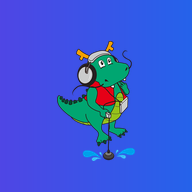
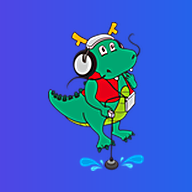
스마트 물길점검: 차량 위치·팀장에게 위치 보내기·카톡 보내기·아이콘 크게
Claude-Session: https://claude.ai/code/session_01RLYUnxW5YfDx6oiFisBKiW

Changed region(s): [[0.25, 0.0938, 0.75, 0.9062], [0.6562, 0.1562, 0.7188, 0.2188]]

diff --git a/insp-schedule/index.html b/insp-schedule/index.html
@@ -289,6 +289,9 @@ html.noadm .adm{display:none!important}
 
 /* ── 🗺 카카오맵형 PC 배치 (html.kk: 1024px 이상 · 휴대폰 배치가 아닐 때) ── */
 .kk-only{display:none}
+.veh{position:absolute;left:0;top:0;transform:translate(-50%,-92%);width:78px;pointer-events:auto;cursor:pointer}.veh img{width:78px;display:block;filter:drop-shadow(0 3px 4px rgba(0,0,0,.45));transition:transform .4s}.veh.flip img{transform:scaleX(-1)}
+.veh span{position:absolute;left:50%;top:100%;transform:translateX(-50%);white-space:nowrap;background:#1e1b4b;color:#fff;font-size:11px;font-weight:800;padding:1px 7px;border-radius:99px;margin-top:1px;box-shadow:0 1px 3px rgba(0,0,0,.3)}
+.veh.me span{background:#dc2626}html.dark .veh span{background:#312e81}#fLoc.on{background:#fee2e2!important}
 .iwh{position:absolute}#intro{display:none;position:fixed;inset:0;z-index:6000;background:linear-gradient(135deg,#4f46e5,#2563eb);overflow:hidden;cursor:pointer}#intro.on{display:block}#intro.out{opacity:0;transition:opacity .35s}
 .iroad{position:absolute;left:0;right:0;top:calc(50% + min(90vw,560px)*.19);height:6px;background:repeating-linear-gradient(90deg,rgba(255,255,255,.75) 0 40px,transparent 40px 80px);animation:iroad .55s linear infinite}
 @keyframes iroad{to{background-position:-80px 0}}
@@ -477,6 +480,7 @@ html:not(.fm) main{grid-template-columns:minmax(0,1fr) minmax(0,1fr)}
   <button class="btn" id="bNav" type="button"><i class="ii" data-i="compass"></i> 주소찾기·길안내</button>
   <button class="btn" id="bInst" hidden title="주소창 없이 앱처럼 열리게 홈 화면에 설치합니다"><i class="ii" data-i="plus"></i> 앱으로 설치</button>
   <button class="btn" id="bHelp" type="button">❓ 사용법</button>
+  <button class="btn adm" id="bPos" type="button"><i class="ii" data-i="loc"></i> 내 위치 보내기</button>
   <button class="btn" id="bToday" type="button"><i class="ii" data-i="flag"></i> 오늘 점검</button>
   <button class="btn" id="bIcs" type="button"><i class="ii" data-i="cal"></i> 휴대폰 달력에 넣기</button>
   <button class="btn" id="bFs" type="button"><b style="font-size:15px">가</b> <span id="fsT">글자 보통</span></button>
@@ -601,6 +605,12 @@ html:not(.fm) main{grid-template-columns:minmax(0,1fr) minmax(0,1fr)}
  <div class="tabs" id="evTabs"><button data-t="team" class="on"><i class="ii" data-i="clip"></i> 팀평가</button><button data-t="prev"><i class="ii" data-i="hist"></i> 이전 지적</button><button data-t="ppl"><i class="ii" data-i="users"></i> 개별평가</button><button data-t="intv"><i class="ii" data-i="mic"></i> 면담</button><button data-t="res"><i class="ii" data-i="doc"></i> 결과</button><button data-t="ph"><i class="ii" data-i="map"></i> 사진</button><button data-t="hist"><i class="ii" data-i="cal"></i> 회차 이력</button></div>
  <div id="evBody"></div>
  <div class="evft"><label class="mini" style="display:flex;gap:6px;align-items:center"><input type="checkbox" id="evDone"> <b>이 현장 점검 완료</b></label><span id="evMsg" class="mini"></span><button class="btn pri" id="evSv"><i class="ii" data-i="save"></i> 점검표 저장</button></div>
+</div></div>
+<div class="modal np" id="tpm"><div class="mbox" style="max-width:420px;margin-top:60px">
+ <div style="display:flex;justify-content:space-between;align-items:center;margin-bottom:6px"><b><i class="ii" data-i="loc"></i> 팀장에게 내 위치 보내기</b><button class="btn" id="tpX" type="button"><i class="ii" data-i="x"></i></button></div>
+ <p id="tpQ" style="margin:6px 0 2px;font-weight:700;font-size:15px"></p><p class="mini" id="tpD" style="margin:0 0 10px"></p>
+ <div style="display:flex;gap:8px;flex-wrap:wrap"><button class="btn" id="tpS" type="button" style="background:#4f46e5;color:#fff;border-color:#4f46e5;flex:1">💬 문자</button><button class="btn" id="tpK" type="button" style="background:#fee500;color:#191919;border-color:#fee500;flex:1">🟡 카톡</button><button class="btn" id="tpN" type="button" style="flex:1">아니오</button></div>
+ <label class="mini" style="display:flex;gap:6px;align-items:center;margin-top:10px"><input type="checkbox" id="tpOff"> 검색할 때 묻지 않기 (지도 설정에서 다시 켤 수 있음)</label>
 </div></div>
 <div class="modal np" id="rdm"><div class="mbox" style="max-width:440px;margin-top:40px">
  <div style="display:flex;justify-content:space-between;align-items:center;margin-bottom:8px"><b><i class="ii" data-i="cal"></i> 새 점검 회차 만들기</b><button class="btn" id="rdX"><i class="ii" data-i="x"></i></button></div>
@@ -843,7 +853,7 @@ $('nearB').onclick=()=>{if(sortK==='dist'){sortK='pd';sortD=1;MYPOS=null;$('near
  navigator.geolocation.getCurrentPosition(p=>{MYPOS={lat:p.coords.latitude,lng:p.coords.longitude};sortK='dist';sortD=1;$('nearB').classList.add('on');$('nearI').textContent='내 위치에서 직선거리 순 · 다시 누르면 끔';setTab('lst');render()},()=>{$('nearI').textContent='';toast('위치를 가져오지 못했습니다 (위치 권한 확인)')},{enableHighAccuracy:true,timeout:9000})};
 /* 🔎 검색 결과가 한 곳이면 지도로 이동하고 핀을 깜빡임 */
 let QF=null;function qFly(){clearTimeout(QF);QF=setTimeout(()=>{const q=F.q.trim();if(!q||!map)return;const L=filt();if(L.length!==1||!hasPin(L[0]))return;const r=L[0];selId=r.id;BLINK=r.id;
- map.setView([r.lat,r.lng],Math.max(map.getZoom(),12));drawPins();hiRow&&hiRow();setTimeout(()=>{BLINK=null},3000)},450)}
+ map.setView([r.lat,r.lng],Math.max(map.getZoom(),12));drawPins();hiRow&&hiRow();setTimeout(()=>{BLINK=null},3000);const q0=F.q;setTimeout(()=>{if(F.q===q0)tposAsk(r,true)},1300)},450)}
 
 /* ── 카카오 바탕지도 (깃허브 판 · 키는 이 브라우저에만 저장, 실패하면 기본 지도) ── */
 const KKEY='mulgil-kakao-key';let KK=false;
@@ -933,6 +943,7 @@ function lyApply(){const H=document.documentElement;H.classList.toggle('nomap',!
  if(map&&!KK&&map.getPane){const b=map.getPane('base'),t=map.getPane('tilePane');if(b)b.style.display=LY.base?'':'none';if(t)t.style.display=LY.base?'':'none'}
  if(typeof isMob==='function'&&isMob()&&LY.map&&SH==='full')setSheet('half');if(typeof isMob==='function'&&isMob()&&!LY.map)setSheet('full')}
 function lyUI(){const hasK=!!kkKeyRaw()&&!inClaude(),I=[
+ ...ADM&&AUTH?[['askpos',!tpOff(),'검색 때 팀장에게 내 위치 보내기 묻기','현장을 검색해 하나로 좁혀지면 그 현장 팀장에게 보낼지 물어봅니다 (점검자만)']]:[],
  ['clean',LY.clean,'지도만 보기','경계 지도에 핀·지자체 색만 화면 가득 (발표·캡처용) · Esc나 ✕로 끝'],
  ['map',LY.map,'지도 보기','끄면 지도를 숨기고 목록·달력만 넓게 봅니다'],
  ['kk',LY.kk&&hasK,'카카오 바탕지도',hasK?'끄면 기본 지도(시·군·구 경계)로 봅니다 · 바꾸면 다시 열림':inClaude()?'Claude 페이지에서는 쓸 수 없습니다':'메뉴 \'카카오 지도 키\'를 먼저 넣으세요',!hasK],
@@ -954,6 +965,7 @@ $('mapOn').onclick=()=>{LY.map=1;lySave();lyApply();setTimeout(()=>{map&&map.inv
 $('lyL').addEventListener('change',e=>{const k=e.target.dataset.ly,v=e.target.checked;if(!k)return;
  if(k==='rg'){$('rgOn').checked=v;drawPins();return}if(k==='lbl'){$('lblOn').checked=v;drawPins();return}
  if(k==='clean'){$('lym').classList.remove('on');cleanSet(v);return}
+ if(k==='askpos'){try{localStorage.setItem('mulgil-askpos',v?'1':'0')}catch(_){}return}
  LY[k]=v?1:0;lySave();if(k==='kk'){location.reload();return}
  if(k==='map'){lyApply();$('lym').classList.remove('on');if(v)setTimeout(()=>{map&&map.invalidateSize();drawPins(true)},200);return}
  lyApply();drawPins()});
@@ -1013,7 +1025,7 @@ $('pickSkip').onclick=nextPick;$('pickX').onclick=endPick;
 $('fPick').onclick=()=>{if(pickId)return endPick();const ids=filt().filter(r=>!hasPin(r)).sort((a,b)=>a.no-b.no).map(r=>r.id);if(!ids.length)return toast('모든 현장에 위치가 있습니다');startPick(ids)};
 $('fFit').onclick=()=>{const p=filt().filter(hasPin).map(r=>[r.lat,r.lng]);if(map&&p.length)map.fitBounds(p,{padding:[60,60],maxZoom:12});else if(map)map.setView([36.2,127.9],7)};
 $('fNext').onclick=()=>{const d=rows.filter(r=>r.st==='예정'&&ddays(r.pd)>=0).map(r=>r.pd).sort()[0];if(!d)return toast('남은 점검 일정이 없습니다');F.day=d;render(true);toast(md(d)+'('+wd(d)+') 점검 현장')};
-$('fLoc').onclick=()=>{if(!navigator.geolocation)return toast('이 화면에서는 위치를 쓸 수 없습니다');navigator.geolocation.getCurrentPosition(p=>{const ll=[p.coords.latitude,p.coords.longitude];map.setView(ll,13);(KK?kkMarker({lat:ll[0],lng:ll[1]},'pin','<div class="d" style="background:#2563eb"></div>',{title:'내 위치',z:2000}).addTo(pinL):L.circleMarker(ll,{radius:8,color:'#fff',weight:3,fillColor:'#2563eb',fillOpacity:1}).addTo(pinL))},()=>toast('위치를 가져오지 못했습니다'),{enableHighAccuracy:true,timeout:8000})};
+$('fLoc').onclick=()=>{if(ADM&&lockNeed()&&AUTH&&vehMine())return;if(!navigator.geolocation)return toast('이 화면에서는 위치를 쓸 수 없습니다');navigator.geolocation.getCurrentPosition(p=>{const ll=[p.coords.latitude,p.coords.longitude];map.setView(ll,13);(KK?kkMarker({lat:ll[0],lng:ll[1]},'pin','<div class="d" style="background:#2563eb"></div>',{title:'내 위치',z:2000}).addTo(pinL):L.circleMarker(ll,{radius:8,color:'#fff',weight:3,fillColor:'#2563eb',fillOpacity:1}).addTo(pinL))},()=>toast('위치를 가져오지 못했습니다'),{enableHighAccuracy:true,timeout:8000})};
 $('bMove').onclick=()=>{moveOn=!moveOn;$('bMove').classList.toggle('on',moveOn);drawPins();toast(moveOn?'핀을 끌어서 옮길 수 있습니다':'핀 옮기기 꺼짐')};
 $('colBy').onchange=()=>drawPins();$('lblOn').onchange=()=>drawPins();
 function dbArrows(){const d=$('daybar'),w=$('mapWrap');if(!d||!w)return;const r=d.getBoundingClientRect(),q=w.getBoundingClientRect(),f=d.querySelector('.dc');const top=(f?f.getBoundingClientRect().top+f.offsetHeight/2:r.top+22)-q.top-17;
@@ -1383,7 +1395,7 @@ async function rdSet(o){const {id,...b}=o;if(mode==='db'){try{await DB.collectio
  RNDS=RNDS.filter(x=>x.id!==id).concat([o]);rndSort();lsSave();rdUI()}
 $('bArc').onclick=rdArchive;
 /* ── 🔄 새로고침(A안) + 새 판 알림(깃허브 판) ── */
-const BUILD='20261121093140';
+const BUILD='20261121095406';
 function doRefresh(){toast('새로 불러오는 중…');setTimeout(()=>location.reload(),150)}
 $('bRf').onclick=doRefresh;$('fRf').onclick=doRefresh;$('updGo').onclick=doRefresh;$('updX').onclick=()=>$('updB').classList.remove('on');
 async function updCheck(){if(inClaude()||!/^https?:/.test(location.protocol)||/^__/.test(BUILD))return;try{const t=await (await fetch(location.pathname+'?v='+Date.now(),{cache:'no-store'})).text();const m=/const BUILD='([^']+)'/.exec(t);if(m&&m[1]!==BUILD)$('updB').classList.add('on')}catch(e){}}
@@ -2763,6 +2775,53 @@ $('lkK').addEventListener('mousedown',e=>e.preventDefault());$('lkK').onclick=()
 function lockOut(){if(AUTH)logEv('로그아웃',AUTH.name,AUTH.role);try{localStorage.removeItem('mulgil-auth');sessionStorage.removeItem('mulgil-auth')}catch(e){}location.reload()}
 lockApply();
 
+/* ── 🚐 관리자(점검자 로그인) 차량 위치: A 내 화면에 차량으로 따라가기 · C 내 위치 보내기(링크, 서버 없음) ── */
+const VEH={};let VW=null,VPREV=null;
+const vanSrc=()=>{const i=document.querySelector('#intro .ivan img');return i?i.src:''};
+function vehPut(key,lat,lng,label,flip,me){if(!map)return;const html=`<div class="veh${flip?' flip':''}${me?' me':''}"><img src="${vanSrc()}" alt="점검 차량"><span>${esc(label)}</span></div>`;let v=VEH[key];
+ if(KK){const km=kakao.maps,pos=new km.LatLng(lat,lng);if(!v||!v.k){const el=document.createElement('div');el.innerHTML=html;const o=new km.CustomOverlay({position:pos,content:el,xAnchor:0,yAnchor:0,zIndex:3500,clickable:true});o.setMap(map.k);VEH[key]={k:o,el}}else{v.k.setPosition(pos);v.el.innerHTML=html}}
+ else{const ic=L.divIcon({className:'',html,iconSize:[0,0]});if(!v||!v.l){VEH[key]={l:L.marker([lat,lng],{icon:ic,zIndexOffset:3000,interactive:false}).addTo(map)}}else{v.l.setLatLng([lat,lng]);v.l.setIcon(ic)}}}
+function vehDel(key){const v=VEH[key];if(!v)return;try{v.k&&v.k.setMap(null);v.l&&v.l.remove()}catch(e){}delete VEH[key]}
+function vehMine(){if(VW!=null){navigator.geolocation.clearWatch(VW);VW=null;VPREV=null;vehDel('me');$('fLoc').classList.remove('on');toast('내 차량 표시를 껐습니다');return true}
+ if(!navigator.geolocation){toast('이 화면에서는 위치를 쓸 수 없습니다');return true}let first=true;$('fLoc').classList.add('on');toast('내 위치를 차량으로 표시합니다 · 다시 누르면 끔');
+ VW=navigator.geolocation.watchPosition(p=>{const la=p.coords.latitude,ln=p.coords.longitude;let flip=VPREV?VPREV.flip:false;if(VPREV&&Math.abs(ln-VPREV.ln)>0.00003)flip=ln<VPREV.ln;VPREV={la,ln,flip};
+  const nm=(AUTH&&AUTH.name)||MEN||'내 차량';vehPut('me',la,ln,nm+' (나)',flip,true);if(first){first=false;map.setView([la,ln],Math.max(map.getZoom(),13))}},
+  e=>{if(e&&e.code===1){toast('위치 권한이 없어 내 차량 표시를 껐습니다');vehMine()}else if(first)toast('위치를 찾는 중입니다…')},{enableHighAccuracy:true,maximumAge:5000,timeout:20000});return true}
+document.addEventListener('visibilitychange',()=>{if(document.hidden&&VW!=null){navigator.geolocation.clearWatch(VW);VW=null;VPREV=null;vehDel('me');$('fLoc').classList.remove('on')}});
+/* 현장 검색 → 그 현장 팀장에게 내 위치 보내기 묻기 (점검자 로그인만) */
+const TPASK={};let TPR=null,TPTXT='',TPU='';
+const tpOff=()=>{try{return localStorage.getItem('mulgil-askpos')==='0'}catch(e){return false}};
+const tpLead=r=>{const c=ctOf(r).p||[];const l=c.find(x=>/팀장/.test(x.role||''))||c[0];return{n:(l&&l.n)||r.tl||r.solo||r.lead||'',role:(l&&l.role)||'팀장',ph:(l&&l.ph)||''}};
+function tposAsk(r,auto){if(!ADM||!AUTH||!r)return;if(auto&&(tpOff()||TPASK[r.id]||$('tpm').classList.contains('on')||document.querySelector('.modal.on')))return;TPASK[r.id]=1;TPR=r;TPTXT='';TPU='';
+ const l=tpLead(r),who=l.n?`${l.n} ${l.role}`:'팀장';$('tpQ').textContent=`${r.tm} 현장 ${who}에게 내 위치를 보낼까요?`;$('tpD').textContent='내 위치 확인 중…';
+ $('tpS').hidden=!l.ph;$('tpOff').checked=tpOff();$('tpm').classList.add('on');$('tpS').disabled=$('tpK').disabled=true;
+ const fin=(la,ln)=>{const nm=(AUTH&&AUTH.name)||MEN||'점검자',t=Date.now();let km='';if(la!=null&&hasPin(r)){const k=hav({lat:la,lng:ln},r);km=k<1?'1km 이내':'약 '+(k<10?k.toFixed(1):Math.round(k))+'km'}
+  TPU=la!=null?location.origin+location.pathname+'#pos='+la.toFixed(5)+','+ln.toFixed(5)+','+t+','+encodeURIComponent(nm):location.origin+location.pathname;
+  TPTXT=`[스마트 물길점검] ${nm} 점검 차량 현재 위치 (${phT(new Date(t).toISOString())})`+(km?`\n${r.tm} 현장까지 직선 ${km}`:'');
+  $('tpD').textContent=la==null?'위치를 못 가져와 앱 주소만 보냅니다 (위치 권한 확인)':(km?`현장까지 직선 ${km} · `:'')+(l.ph?'문자는 팀장 번호가 채워진 채 열립니다':'카톡에서 팀장을 골라 보내세요');$('tpS').disabled=$('tpK').disabled=false};
+ if(!navigator.geolocation)return fin(null);navigator.geolocation.getCurrentPosition(p=>fin(p.coords.latitude,p.coords.longitude),()=>fin(null),{enableHighAccuracy:true,timeout:10000,maximumAge:60000})}
+const tpClose=()=>{$('tpm').classList.remove('on');TPR=null};
+$('tpX').onclick=$('tpN').onclick=tpClose;
+$('tpOff').onchange=e=>{try{localStorage.setItem('mulgil-askpos',e.target.checked?'0':'1')}catch(_){}};
+$('tpS').onclick=()=>{if(!TPR)return;const l=tpLead(TPR),body=TPTXT+'\n'+TPU+'\n(점검자 로그인 후 지도에 차량이 보입니다)';
+ location.href='sms:'+l.ph.replace(/[^\d+]/g,'')+(/iP(hone|ad|od)/.test(navigator.userAgent)?'&':'?')+'body='+encodeURIComponent(body);tpClose()};
+$('tpK').onclick=()=>{if(!TPR)return;const l=tpLead(TPR),u=TPU.replace('#pos=','?pos=');if(l.n)toast(`카톡에서 ${l.n} ${l.role}을(를) 골라 보내세요`);
+ kkShare(TPTXT+'\n점검자 로그인 후 지도에 차량이 보입니다.',u).catch(()=>shareSend(TPTXT+'\n'+TPU));tpClose()};
+/* 카카오톡 바로 보내기 — 카카오 키(이 브라우저에 저장된 것)가 있을 때만. 없거나 실패하면 기존 공유창 */
+function kkShare(text,url){return new Promise((ok,no)=>{let key='';try{key=localStorage.getItem(KKEY)||''}catch(e){}if(!key)return no('nokey');
+ const send=()=>{try{if(!Kakao.isInitialized())Kakao.init(key);Kakao.Share.sendDefault({objectType:'text',text:text.slice(0,200),link:{mobileWebUrl:url,webUrl:url},buttonTitle:'차량 위치 보기'});ok()}catch(e){no(e)}};
+ if(window.Kakao&&Kakao.Share)return send();const sc=document.createElement('script');sc.src='https://t1.kakaocdn.net/kakao_js_sdk/2.7.4/kakao.min.js';sc.crossOrigin='anonymous';
+ const t=setTimeout(()=>no('timeout'),8000);sc.onload=()=>{clearTimeout(t);window.Kakao&&Kakao.Share?send():no('nosdk')};sc.onerror=()=>{clearTimeout(t);no('load')};document.head.appendChild(sc)})}
+$('bPos').onclick=()=>{$('tbar').classList.remove('open');if(!ADM||!AUTH)return toast('관리자(점검자 로그인)만 쓸 수 있습니다');if(!navigator.geolocation)return toast('이 화면에서는 위치를 쓸 수 없습니다');toast('내 위치 찾는 중…');
+ navigator.geolocation.getCurrentPosition(p=>{const nm=(AUTH&&AUTH.name)||MEN||'관리자',t=Date.now(),u=location.origin+location.pathname+'#pos='+p.coords.latitude.toFixed(5)+','+p.coords.longitude.toFixed(5)+','+t+','+encodeURIComponent(nm);
+  const txt=`[스마트 물길점검] ${nm} 점검 차량 현재 위치 (${phT(new Date(t).toISOString())})`;
+  kkShare(txt+'\n점검자 로그인 후 지도에 차량이 보입니다.',u.replace('#pos=','?pos=')).catch(()=>shareSend(txt+'\n아래 링크를 누르면 앱 지도에 차량 위치가 보입니다.\n'+u))},()=>toast('위치를 가져오지 못했습니다 (위치 권한 확인)'),{enableHighAccuracy:true,timeout:12000})};
+function posHash(){const m=/[#&?]pos=([-\d.]+),([-\d.]+),(\d+),([^&]*)/.exec((location.hash||'')+'&'+(location.search||''));if(!m)return;const la=+m[1],ln=+m[2],t=+m[3],nm=decodeURIComponent(m[4]||'')||'점검 차량';let n=0;
+ const go=()=>{if(!map||document.documentElement.classList.contains('locked')){if(++n<120)return setTimeout(go,500);return}try{history.replaceState(null,'',location.pathname+location.search.replace(/[?&]pos=[^&]*/,'').replace(/^&/,'?'))}catch(e){}
+  if(!ADM)return toast('차량 위치는 관리자(점검자 로그인)만 볼 수 있습니다');
+  const ago=Math.max(0,Math.round((Date.now()-t)/60000)),lb=`${nm} · ${ago<1?'방금':ago<60?ago+'분 전':Math.floor(ago/60)+'시간 전'}`;vehPut('shared',la,ln,lb,false,false);map.setView([la,ln],Math.max(map.getZoom(),13));toast(nm+' 차량 위치 ('+phT(new Date(t).toISOString())+' 기준)')};setTimeout(go,900)}
+posHash();addEventListener('hashchange',posHash);
+
 /* ── 🖨 점검결과 출력 (현장별 결과표 · 회차 종합 보고서 / 공개용·내부용) ── */
 let RP={k:'site',v:'pub',id:null};
 const RPS={p1:'근태·태도',p2:'사규 준수',p3:'자기계발',p4:'조직 기여',q1:'사업 발굴',q2:'영업 참여'};
@@ -3018,7 +3077,7 @@ function showCard(r){if(!isMob())return;selId=r.id;const s=stOf(r),d=ddays(r.pd)
  <div class="sc-row">${ic('pin')}<div>${r.addr?esc(r.addr)+` <a class="cp" data-cp="${esc(r.addr)}">복사</a>`:'<b class="warn">주소 확인 필요</b>'}${r.src?`<div class="mini">${esc(r.src)}</div>`:''}</div></div>
  <div class="sc-row">${ic('users')}<div>기술 ${esc(r.ins[0])} · 영업 ${esc(r.ins[1])} · 공통 ${esc(r.ins[2])}<div class="mini">수검 ${cnt(r)}명</div></div></div>
  ${c.length?`<div class="sc-row">${ic('phone')}<div>${c.map(telA).join('<br>')}</div></div>`:''}
- <div class="sc-btn">${ADM?`<button data-a="ev" style="background:#4f46e5;color:#fff;border-color:#4f46e5">${ic('clip')} 점검표${EV[r.id]?' ✓':''}</button>`:''}<button data-a="ed">${ic('pen')} 수정</button><button data-a="done">${ic('check')} 완료</button><button data-a="pick">${ic('pin')} 지도에서 고치기</button><button data-a="share">${ic('share')} 소식 보내기</button><button data-a="qr">▦ QR</button><button data-a="geo">${ic('compass')} 주소로 찾기</button></div>
+ <div class="sc-btn">${ADM?`<button data-a="ev" style="background:#4f46e5;color:#fff;border-color:#4f46e5">${ic('clip')} 점검표${EV[r.id]?' ✓':''}</button>`:''}<button data-a="ed">${ic('pen')} 수정</button><button data-a="done">${ic('check')} 완료</button><button data-a="pick">${ic('pin')} 지도에서 고치기</button><button data-a="share">${ic('share')} 소식 보내기</button>${ADM&&AUTH?`<button data-a="tpos">${ic('loc')} 팀장에게 내 위치</button>`:''}<button data-a="qr">▦ QR</button><button data-a="geo">${ic('compass')} 주소로 찾기</button></div>
  <div class="sc-go"><a href="#" data-a="nav">길안내</a><a href="${kkLink(r,'to')}" target="_blank" rel="noopener">카카오맵 도착</a></div>
  <p class="mini" style="margin:0">길안내는 카카오맵·티맵 중에서 골라 이 현장 주소로 엽니다.</p>`;
  $('siteCard').hidden=false;$('side').classList.add('card-on');if(SH==='peek'||SH==='mini'||SH==='hide')setSheet('half');drawPins();
@@ -3027,7 +3086,7 @@ function hideCard(){$('siteCard').hidden=true;$('side').classList.remove('card-o
 $('siteCard').addEventListener('click',async e=>{const r=rows.find(x=>x.id===selId);if(e.target.closest('#scX'))return hideCard();
  const cp=e.target.closest('[data-cp]');if(cp){try{await navigator.clipboard.writeText(cp.dataset.cp);toast('주소를 복사했습니다')}catch(_){toast('복사가 막혀 있습니다. 주소를 길게 눌러 복사하세요')}return}
  const b=e.target.closest('[data-a]');if(!b||!r)return;const a=b.dataset.a;
- if(a==='share'){shareSite(r.id);return}
+ if(a==='share'){shareSite(r.id);return}if(a==='tpos'){tposAsk(r,false);return}
  if(a==='qr'){qrOpen(r.id);return}
  if(a==='nav'){e.preventDefault();openNav(r.addr||(r.rg+' '+r.tm));return}if(a==='ev')openEv(r.id);else if(a==='ed')openEd(r.id);else if(a==='done'){await donePin(r.id);const n=rows.find(x=>x.id===r.id);n&&showCard(n)}else if(a==='pick'){setSheet('peek');startPick([r.id])}else if(a==='geo'){if(!r.addr)return toast('주소가 없습니다');toast('주소로 찾는 중…');try{const g=await geoOne(r.addr);if(g&&!g.rough){await putRow({...r,lat:+g.lat.toFixed(6),lng:+g.lng.toFixed(6),src:'주소 검색: '+g.q});toast('위치를 고쳤습니다');const n=rows.find(x=>x.id===r.id);n&&showCard(n)}else toast('정확한 위치를 못 찾았습니다. 지도에서 고치기를 쓰세요')}catch(_){toast('주소 검색 서버에 연결할 수 없습니다(Claude 페이지에서는 막힘). 지도에서 고치기를 쓰세요')}}});
 
